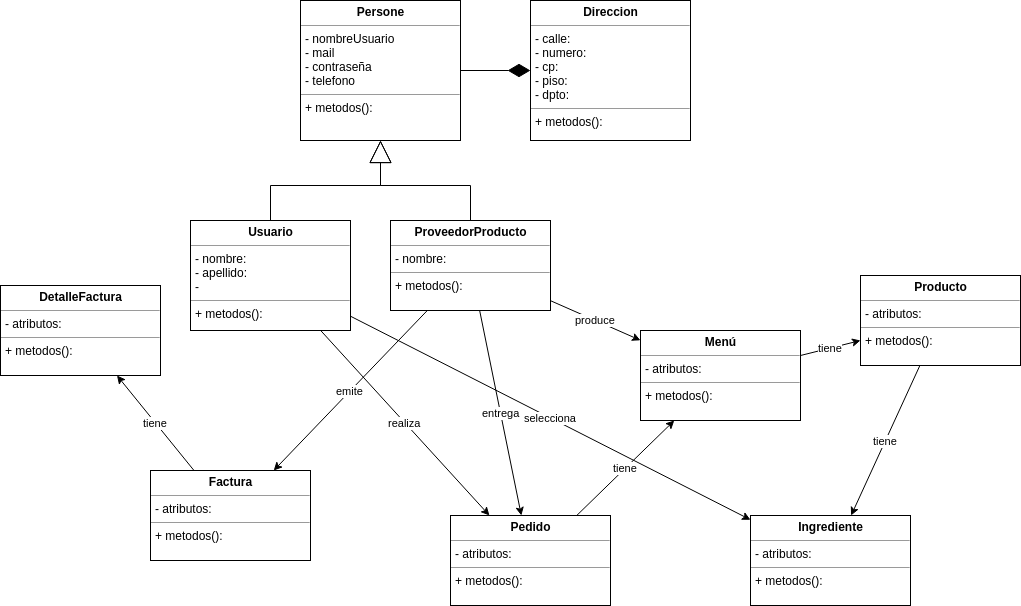
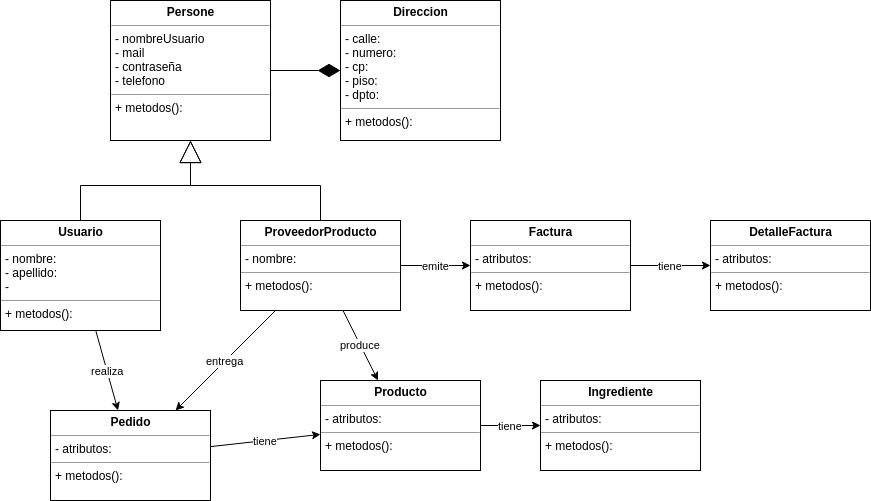
se quito menu

diff --git a/NyanDelivery/src/main/java/com/integrador/nyandelivery/Direccion.java b/NyanDelivery/src/main/java/com/integrador/nyandelivery/Direccion.java
@@ -6,5 +6,10 @@
 package com.integrador.nyandelivery;
 
 public class Direccion {
+    private String calle;
+    private int numero;
+    private int codigoPostal;
+    private String piso;
+    private String departamento;
     
 }

diff --git a/NyanDelivery/src/main/java/com/integrador/nyandelivery/Persona.java b/NyanDelivery/src/main/java/com/integrador/nyandelivery/Persona.java
@@ -6,5 +6,10 @@
 package com.integrador.nyandelivery;
 
 public class Persona {
+    private int id;
+    private String mail;
+    private String contraseña;
+    private String nombre;
+    private String apellido;
     
 }

diff --git a/NyanDelivery/src/main/java/com/integrador/nyandelivery/Ingrediente.java b/NyanDelivery/src/main/java/com/integrador/nyandelivery/Ingrediente.java
@@ -7,5 +7,7 @@ package com.integrador.nyandelivery;
 
 
 public class Ingrediente {
+    private int id;
+    private String nombre;
     
 }

diff --git a/iteracion_2/Delivery.md b/iteracion_2/Delivery.md
@@ -30,7 +30,7 @@ Ademas de eso proveer al usuario recomendaciones y ofertas basadas en sus compra
 
 ## Análisis de Dominio
 
-Nuestro sistema comprende a dos usuarios. El usuario que utiliza la aplicación para realizar pedidos o consultar precios, por otro lado, tenemos a los usuarios que se registran como proveedores de productos. Éstos se encargan de publicar menúes, los cuales se muestran en la pantalla principal de navegación de la aplicación. Éstos menúes tienen la caracteristica de que los usuarios pueden personalizar los ingredientes que lo componen. Al realizarse el pedido, el proveedor de productos, deberá realizar el servicio de delivery, si así lo especificó el usuario que solicito el pedido. Además la aplicación permitirá valorar a los proveedores de productos y generar estadísticas de datos específicos en un rango de tiempo.
+Nuestro sistema comprende a dos usuarios. El usuario que utiliza la aplicación para realizar pedidos o consultar precios, por otro lado, tenemos a los usuarios que se registran como proveedores de productos. Éstos se encargan de publicar productos, los cuales se muestran en la pantalla principal de navegación de la aplicación. Éstos productos tienen la caracteristica de que los usuarios pueden personalizar los ingredientes que lo componen. Al realizarse el pedido, el proveedor de productos, deberá realizar el servicio de delivery, si así lo especificó el usuario que solicito el pedido. Además la aplicación permitirá valorar a los proveedores de productos y generar estadísticas de datos específicos en un rango de tiempo.
 
 ## Casos de Uso
 
@@ -42,7 +42,6 @@ Nuestro sistema comprende a dos usuarios. El usuario que utiliza la aplicación 
 1. __Proveedor productos__: Es el negocio que desea comercializar sus productos a través de la app.
 2. __Usuario__: Es la persona que desea comprar productos a través de nuesta página.
 3. __Administrador__: Persona encargada de la gestión de la página.
-4. __Tiempo__: Efecto externo para el control del sistema.
 
 ## __1. Registrar proveedor de producto__
 
@@ -224,7 +223,7 @@ _Curso alternativo_
 
 __Actores__: Usuario.
 
-__Objetivo__: El usuario busca los productos o menúes que quiere.
+__Objetivo__: El usuario busca los productos que quiere.
 
 __Flujo Principal__:
 
@@ -245,17 +244,17 @@ _Curso alternativo_
 ![Pantalla Busqueda](pantallabuscar.png)
 - - -
 
-## __7. Seleccionar menú__
+## __7. Seleccionar producto__
 
 __Actores__: Usuario.
 
-__Objetivo__: Seleccionar menúes que se agregarán al pedido.
+__Objetivo__: Seleccionar productos que se agregarán al pedido.
 
 __Flujo Principal__:
 
-1. Este caso de uso comienza cuando el Usuario selecciona un menú.
-2. El Sistema registra que se seleccionó dicho menú.
-3. El Sistema muestra la información del menú seleccionado.
+1. Este caso de uso comienza cuando el Usuario selecciona un producto.
+2. El Sistema registra que se seleccionó dicho producto.
+3. El Sistema muestra la información del producto seleccionado.
 
 - - -
 ## agregar boceto de pantalla
@@ -265,30 +264,30 @@ __Flujo Principal__:
 
 __Actores__: Usuario
 
-__Objetivo__: Selecciona un proveedor de productos para ver los menúes que ofrecen.
+__Objetivo__: Selecciona un proveedor de productos para ver que ofrece.
 
 __Flujo Principal__:
 
 1. Este caso de uso comienza cuando el usuario selecciona un proveedor de productos de la lista.
 2. El Sistema registra que se seleccionó dicho proveedor de productos.
-3. El Sistema muestra los menúes que ofrece el proveedor de productos.
+3. El Sistema muestra los productos que ofrece el proveedor de productos.
 
 - - -
 ## agregar boceto de pantalla
 - - -
 
-## __9. Agregar menú a un pedido__
+## __9. Agregar producto a un pedido__
 
 __Actores__: Usuario
 
-__Objetivo__: Funcionalidad ofrecida para agregar menúes a un pedido.
+__Objetivo__: Agregar productos a un pedido.
 
 __Flujo Principal__:
 
-1. Este caso de uso comienza cuando el usuario selecciona un menú y presiona agregar al pedido.
+1. Este caso de uso comienza cuando el usuario selecciona un producto y presiona agregar al pedido.
 2. El sistema verifica que el Cliente esta logueado.
 3. El sistema verifica el proveedor de productos seleccionados.
-4. El sistema agrega el menú seleccionado al pedido.
+4. El sistema agrega el producto seleccionado al pedido.
 5. El usuario ingresa la cantidad.
 6. El sistema registra la cantidad y lo muestra en el pedido.
 _Curso alternativo_
@@ -314,7 +313,7 @@ __Flujo Principal__:
 1. Este caso de uso comienza cuando el usuario selecciona cancelar pedido.
 2. El sistema muestra un pop-up de confirmacion que pregunta ¿desea cancelar el pedido?
 3. El usuario presiona en el boton si.
-4. El sistema registra la opcion marcada del usuario y quita los menues del pedido.
+4. El sistema registra la opcion marcada del usuario y quita los productos del pedido.
 5. El sistema informa que se cancelo pedido de forma exitosa. 
 
 _Curso alternativo_
